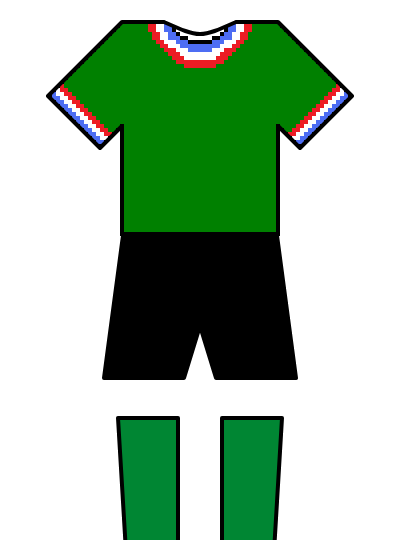
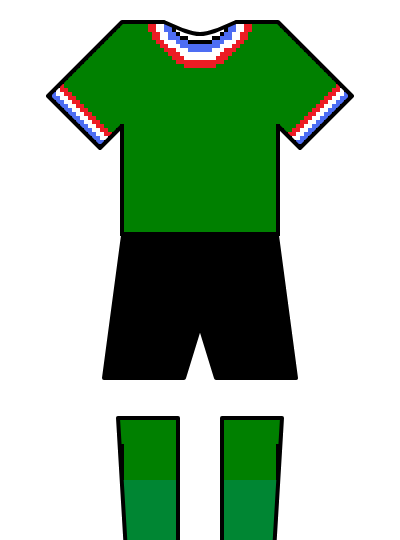
Complete the kit drawings with the last pattern pictures
Claude-Session: https://claude.ai/code/session_019gbuJGYaZ4pQBD5fAWM6oT

Changed region(s): [[0.54, 0.7704, 0.72, 0.8889], [0.3, 0.7704, 0.45, 0.8889]]

diff --git a/public/data/kits.js b/public/data/kits.js
@@ -1119,7 +1119,7 @@ window.HALFTIME_KITS = [
     matches: ["1976-european-cup-final"],
     coloursSource: "Wikipedia, \"1976 European Cup final\" (revision 1341421817), CC BY-SA 4.0; colour read from the Commons picture \"Kit body asse_saint_etienne_76.png\" (CC BY-SA 3.0)",
     coloursUrl: "https://en.wikipedia.org/w/index.php?title=1976_European_Cup_final&oldid=1341421817",
-    illustration: { file: "saint-etienne-1976.png", credit: "Drawn after the kit shown in Wikipedia’s \"1976 European Cup final\" article. Pattern pictures from Wikimedia Commons: Kit left arm asse saint etienne 76.png (CC BY-SA 3.0, Guiggz); Kit body asse saint etienne 76.png (CC BY-SA 3.0, Guiggz); Kit right arm asse saint etienne 76.png (CC BY-SA 3.0, Guiggz); Kit shorts asse saint etienne 76.png (CC BY-SA 3.0, Guiggz). Outline: Wikimedia Commons kit template drawings." }
+    illustration: { file: "saint-etienne-1976.png", credit: "Drawn after the kit shown in Wikipedia’s \"1976 European Cup final\" article. Pattern pictures from Wikimedia Commons: Kit left arm asse saint etienne 76.png (CC BY-SA 3.0, Guiggz); Kit body asse saint etienne 76.png (CC BY-SA 3.0, Guiggz); Kit right arm asse saint etienne 76.png (CC BY-SA 3.0, Guiggz); Kit shorts asse saint etienne 76.png (CC BY-SA 3.0, Guiggz); Kit socks asse saint etienne 76.png (CC BY-SA 3.0, Guiggz). Outline: Wikimedia Commons kit template drawings." }
   },
   {
     id: "west-germany-1976",
